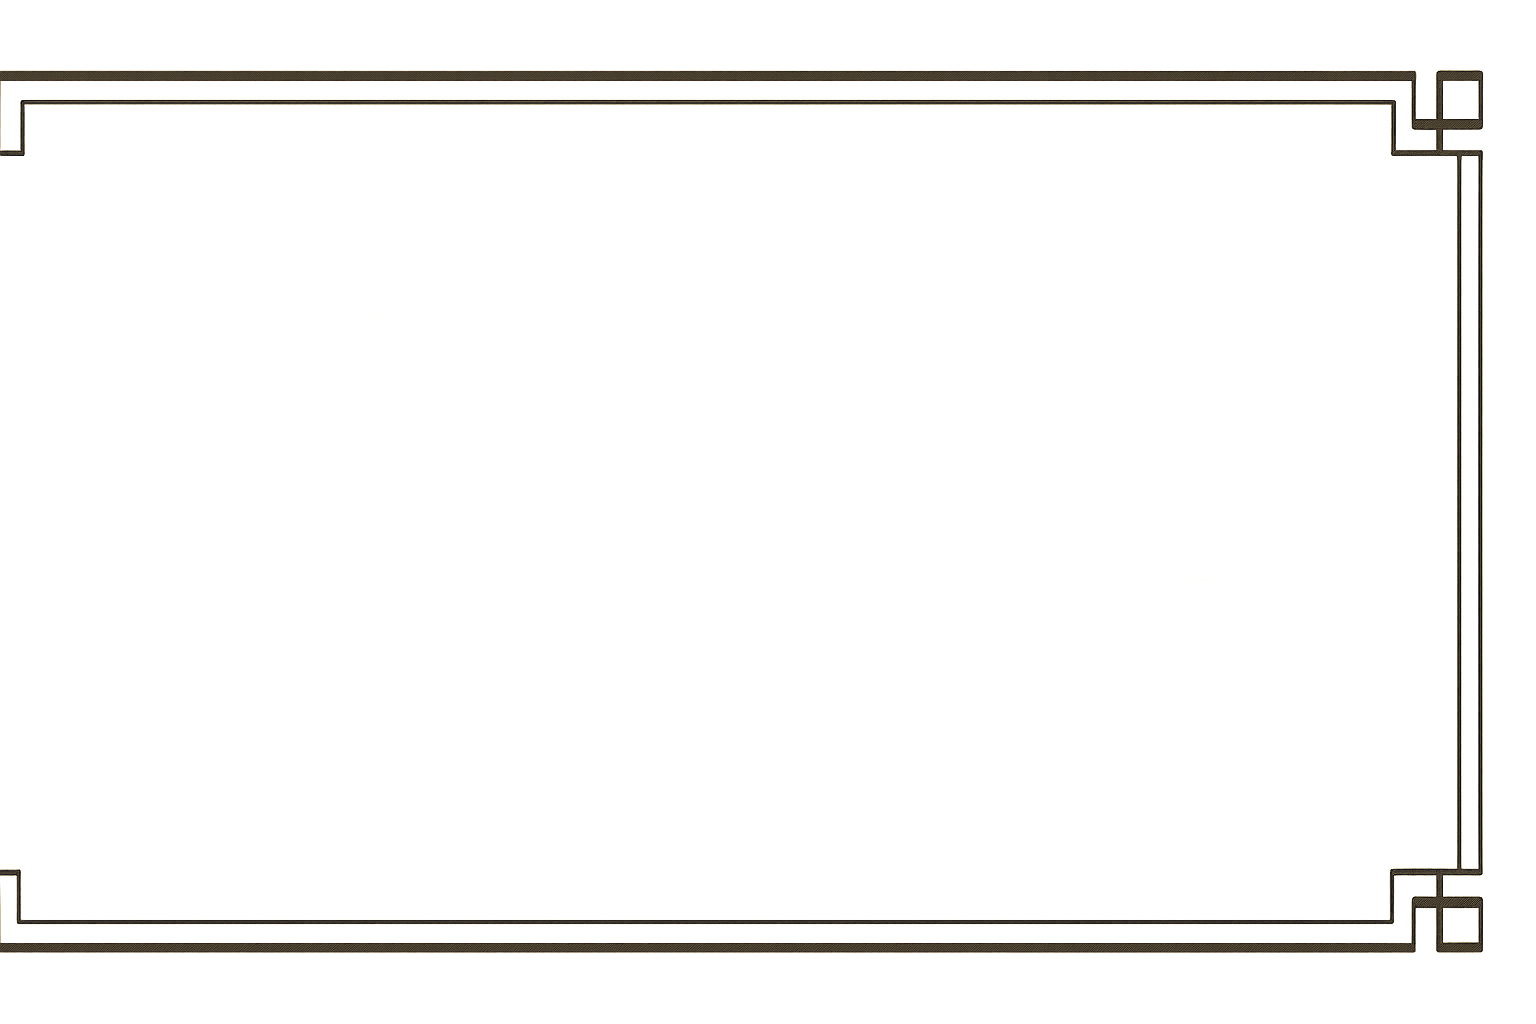
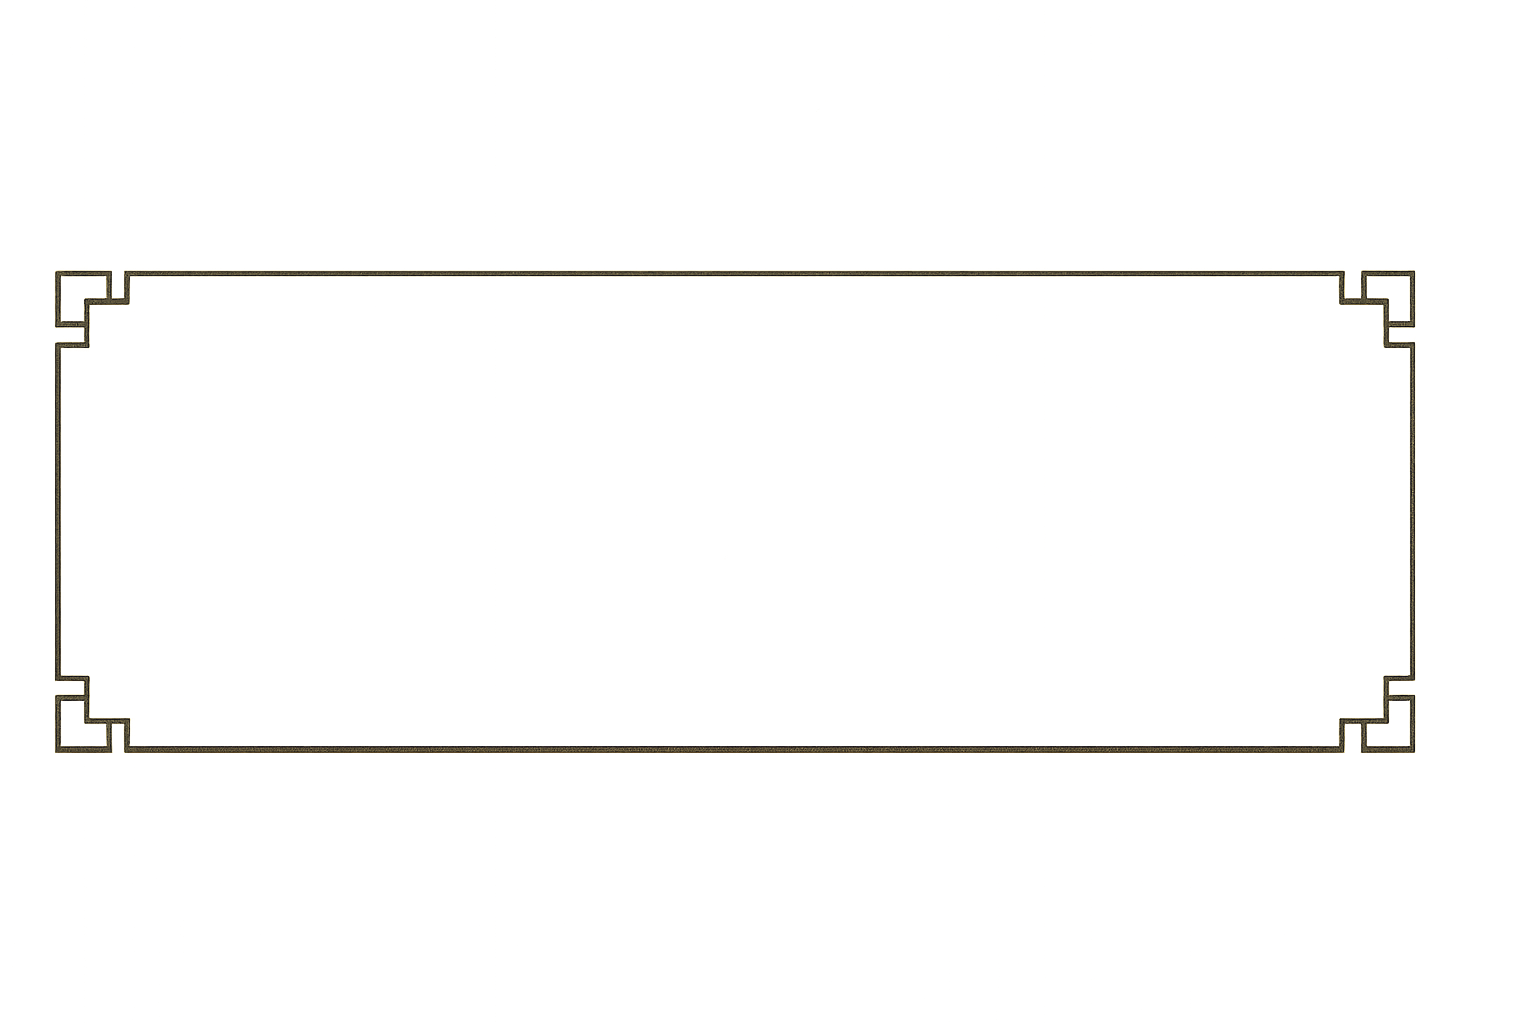
fix(gen): regen main_panel with complete 4-side borders

Changed region(s): [[0.0, 0.0625, 0.9688, 0.9375]]

diff --git a/tools/gen_wuxia_elements_r2.py b/tools/gen_wuxia_elements_r2.py
@@ -3,6 +3,7 @@ from __future__ import annotations
 
 import asyncio
 import base64
+import argparse
 import os
 from concurrent.futures import ThreadPoolExecutor
 from dataclasses import dataclass
@@ -50,10 +51,16 @@ ASSETS = [
         size=(1536, 1024),
         api_size=(1536, 1024),
         prompt=(
-            STYLE_PREFIX
-            + "A long horizontal rectangular UI panel. All four corners have the signature ink folded-corner ornament. "
-            "Interior is large clean empty paper, suitable for HUD with many child widgets. The border and corner ornaments "
-            "must be clearly visible and consistent on all 4 corners."
+            "Style: Traditional Chinese wuxia ink-wash UI asset in the 'ancient scroll book' aesthetic. "
+            "Rice paper (xuan paper) warm off-white background #F2EDE0 with subtle fiber grain. "
+            "All borders are clean thin black ink outlines (2 px). Decorative angular ink ornaments at corners "
+            "(like classical Chinese book binding folded corners). Flat 2D, no 3D shading, no gradients, no glow, no highlights. "
+            "Restrained literati palette: paper off-white + black ink. Transparent background outside the shape.\n\n"
+            "A long horizontal rectangular UI panel centered inside the image canvas with CLEAR MARGIN on ALL FOUR SIDES "
+            "(at least 8 percent of canvas on each side). The panel must have FOUR complete visible borders — top, bottom, "
+            "LEFT, and right — all fully drawn and entirely within the image bounds. Do NOT bleed the panel to the image edge. "
+            "All four corners have the signature ink folded-corner ornament, symmetric and identical on all 4 corners. "
+            "Interior is large clean empty paper suitable for HUD content. No part of the panel frame should touch or exceed the image boundary."
         ),
         kind="ai",
     ),
@@ -309,12 +316,26 @@ def build_overview(results: list[tuple[AssetSpec, Path]], overview_path: Path) -
 
 async def run_generation() -> tuple[list[tuple[AssetSpec, Path]], Path]:
     OUT_DIR.mkdir(parents=True, exist_ok=True)
-    client = get_client()
-    loop = asyncio.get_running_loop()
-    ai_specs = [spec for spec in ASSETS if spec.kind == "ai"]
-    pil_specs = [spec for spec in ASSETS if spec.kind == "pil"]
+    parser = argparse.ArgumentParser(description="Generate wuxia UI elements.")
+    parser.add_argument(
+        "--only",
+        action="append",
+        dest="only_keys",
+        help="Generate only the specified asset key. Repeatable.",
+    )
+    args = parser.parse_args()
+    selected_keys = set(args.only_keys or [])
+    unknown_keys = sorted(selected_keys - {spec.key for spec in ASSETS})
+    if unknown_keys:
+        raise ValueError(f"Unknown asset keys for --only: {', '.join(unknown_keys)}")
 
-    with ThreadPoolExecutor(max_workers=max(len(ai_specs), 4)) as executor:
+    selected_specs = [spec for spec in ASSETS if not selected_keys or spec.key in selected_keys]
+    ai_specs = [spec for spec in selected_specs if spec.kind == "ai"]
+    pil_specs = [spec for spec in selected_specs if spec.kind == "pil"]
+    client = get_client() if ai_specs else None
+    loop = asyncio.get_running_loop()
+
+    with ThreadPoolExecutor(max_workers=max(len(selected_specs), 4)) as executor:
         ai_tasks = [
             (spec, loop.run_in_executor(executor, generate_ai_asset_blocking, client, spec, OUT_DIR / spec.filename))
             for spec in ai_specs
@@ -333,8 +354,12 @@ async def run_generation() -> tuple[list[tuple[AssetSpec, Path]], Path]:
     for spec, path in results:
         validate_png(path, spec.size)
 
+    overview_results = [(spec, OUT_DIR / spec.filename) for spec in ASSETS]
+    for spec, path in overview_results:
+        validate_png(path, spec.size)
+
     overview_path = OUT_DIR / "overview.png"
-    build_overview(results, overview_path)
+    build_overview(overview_results, overview_path)
     with Image.open(overview_path) as overview:
         overview_size = overview.size
     validate_png(overview_path, overview_size)
